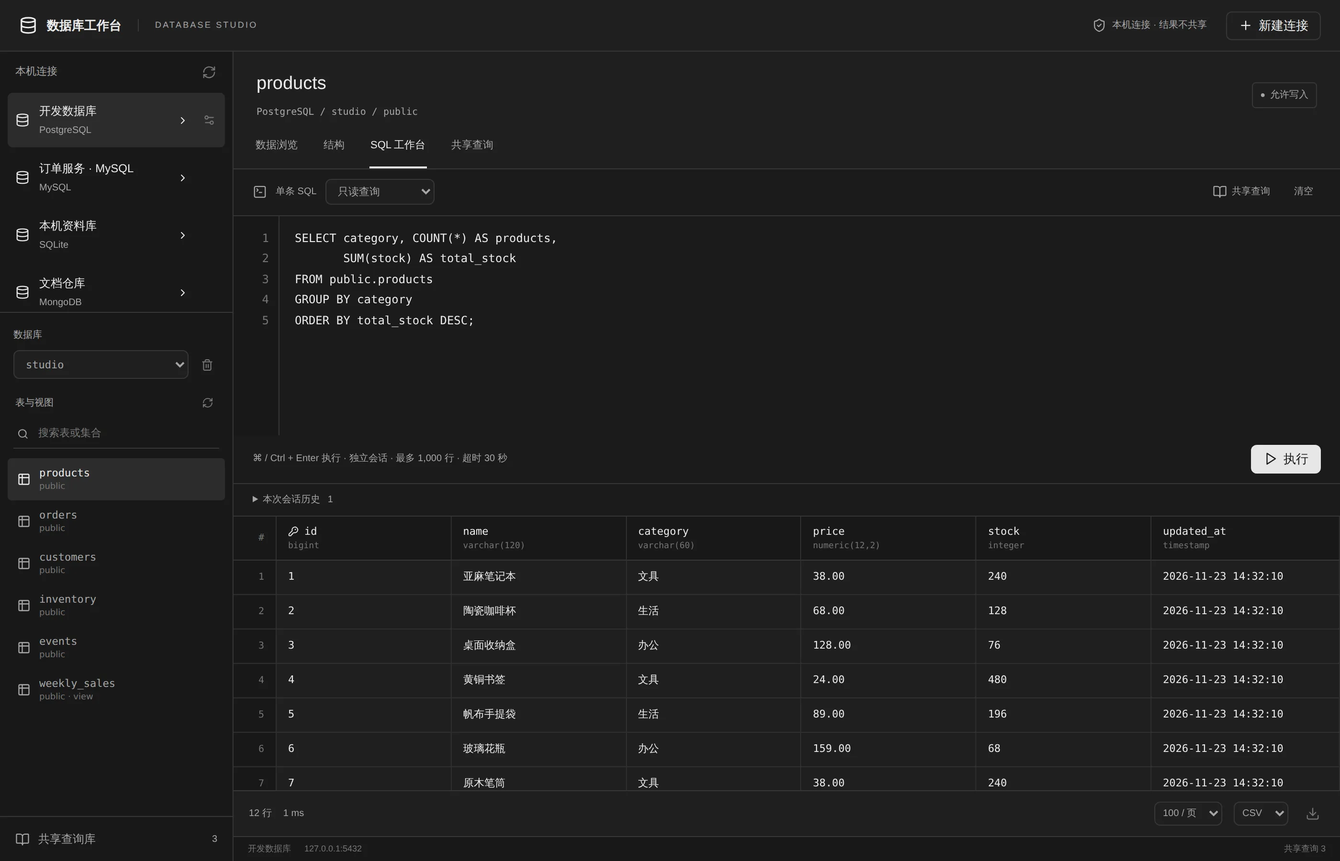
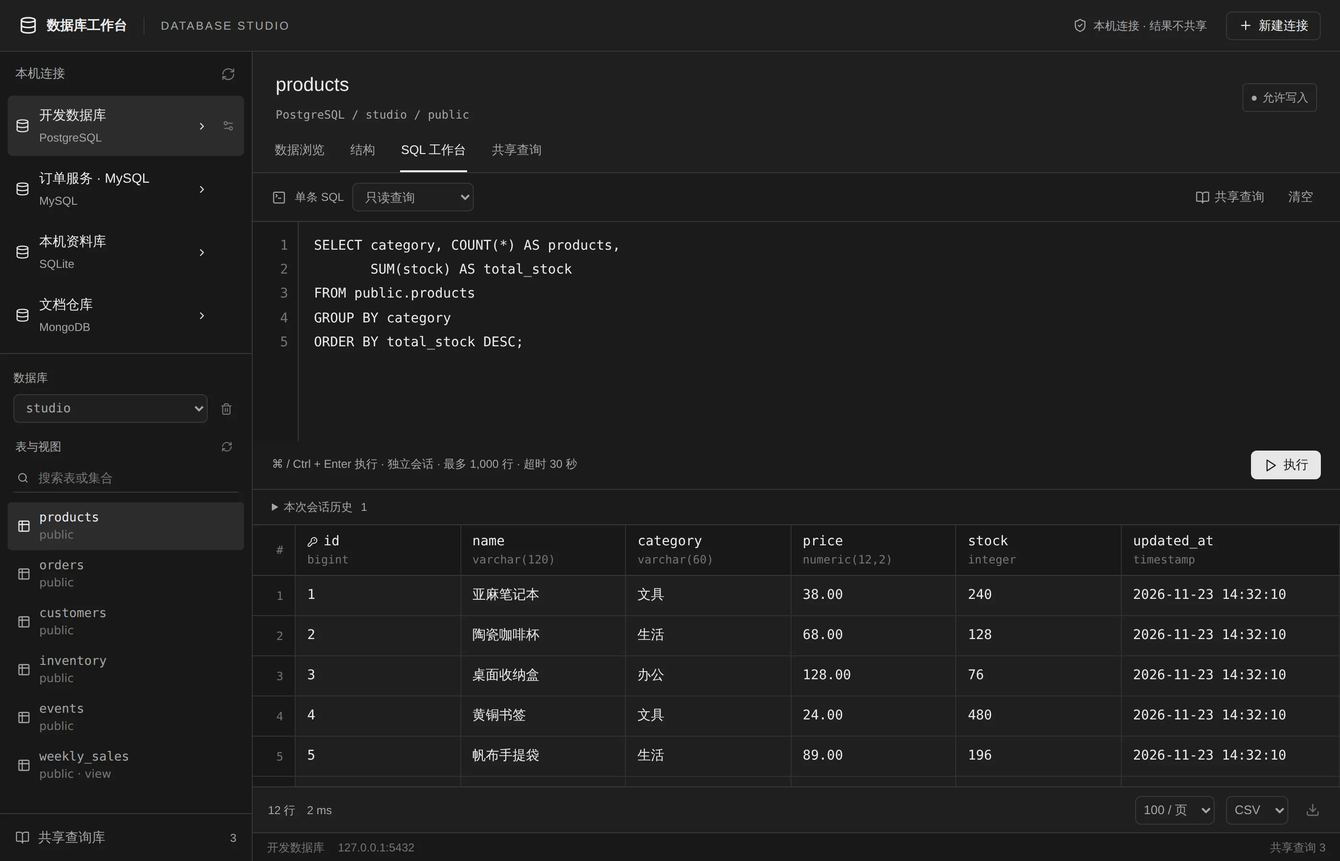
Improve database studio text readability

diff --git a/templates/src/database/database.css b/templates/src/database/database.css
@@ -1,7 +1,8 @@
 /* Desktop-style neutral workspace. Results and credentials have separate flows. */
-:root{--db-sidebar:#f7f7f6;--db-paper:#fff;--db-code:#fafafa;--db-grid-line:#ededeb}@media(prefers-color-scheme:dark){:root{--db-sidebar:#191919;--db-paper:#202020;--db-code:#1b1b1b;--db-grid-line:#303030}}*{box-sizing:border-box}html,body,#root{height:100%;width:100%;margin:0;overflow:hidden}.db-app{height:100%;display:flex;flex-direction:column;font-size:12px;color:var(--fg);background:var(--bg)}button,input,select,textarea{font:inherit}button{cursor:default}button:disabled{opacity:.4;cursor:default}button:focus-visible,input:focus-visible,select:focus-visible,textarea:focus-visible{outline:2px solid var(--fg);outline-offset:2px}.db-top{height:54px;flex:0 0 54px;border-bottom:1px solid var(--line);padding:0 20px;display:flex;align-items:center;justify-content:space-between;gap:16px;background:var(--db-paper)}.db-brand{display:flex;align-items:center;gap:10px;white-space:nowrap}.db-brand strong{font-size:13px;font-weight:600}.db-brand>span{font-size:9px;letter-spacing:1.6px;color:var(--muted);border-left:1px solid var(--line);padding-left:17px;margin-left:7px}.db-inline{display:flex;align-items:center;gap:8px;min-width:0}.db-local{display:flex;align-items:center;gap:6px;color:var(--muted);font-size:10px;margin-right:12px}.db-layout{flex:1;min-height:0;display:flex}.db-sidebar{width:244px;flex:0 0 244px;background:var(--db-sidebar);border-right:1px solid var(--line);display:flex;flex-direction:column;min-height:0}.db-side-heading{display:flex;align-items:center;justify-content:space-between;height:43px;padding:0 12px 0 16px;font-size:11px;color:var(--muted)}.db-connection-list{max-height:230px;overflow:auto;padding:0 8px 12px;border-bottom:1px solid var(--line)}.db-connection{display:flex;align-items:center;border-radius:5px;margin-bottom:3px}.db-connection.is-active{background:var(--hover)}.db-connection>button:first-child{flex:1;min-width:0;background:none;border:0;color:var(--fg);text-align:left;display:flex;align-items:center;gap:10px;padding:10px 8px}.db-connection>button:first-child>span{min-width:0;flex:1}.db-connection strong{display:block;font-size:12px;white-space:nowrap;overflow:hidden;text-overflow:ellipsis;font-weight:500}.db-connection small{display:block;font-size:10px;color:var(--muted);margin-top:4px}.db-connection>.icon-btn{margin-right:4px;flex-shrink:0;opacity:0}.db-connection:hover>.icon-btn,.db-connection>.icon-btn:focus-visible,.db-connection.is-active>.icon-btn{opacity:1}.db-database-select{padding:16px 14px 12px;display:flex;align-items:flex-end;gap:6px}.db-database-select label{display:grid;gap:8px;flex:1;min-width:0;color:var(--muted);font-size:10px}.db-database-select .sel{width:100%;min-width:0;font-size:11px}.db-database-select>.icon-btn{margin-bottom:2px}.db-object-search{display:flex;gap:7px;align-items:center;margin:0 14px 10px;padding:0 4px;border-bottom:1px solid var(--line);color:var(--muted)}.db-object-search .inp{border:0;width:100%;min-width:0;background:transparent;padding:3px;font-size:11px}.db-table-list{flex:1;min-height:0;overflow:auto;padding:0 8px 14px}.db-table-list>button{display:flex;align-items:center;gap:9px;width:100%;border:0;border-radius:4px;background:none;text-align:left;color:var(--muted);padding:9px 10px;min-width:0}.db-table-list>button.is-active{background:var(--hover);color:var(--fg)}.db-table-list>button>span{min-width:0;white-space:nowrap;overflow:hidden;text-overflow:ellipsis;font:11px ui-monospace,SFMono-Regular,Consolas,monospace}.db-table-list small{display:block;font:9px system-ui;margin-top:3px;color:var(--faint)}.db-table-list>.db-hint{padding:8px}.db-side-empty{padding:8px;font-size:11px!important}.db-library-nav{display:flex;align-items:center;gap:9px;padding:14px 16px;margin-top:auto;border:0;border-top:1px solid var(--line);background:none;color:var(--muted);text-align:left;flex-shrink:0}.db-library-nav span{margin-left:auto;font-size:10px}.db-library-nav.is-active{background:var(--hover);color:var(--fg)}.db-main{flex:1;min-width:0;display:flex;flex-direction:column;min-height:0;background:var(--db-paper)}.db-context{display:flex;align-items:center;gap:12px;padding:20px 24px 17px;min-height:87px}.db-context h1{font-size:19px;font-weight:500;margin:0 0 7px;max-width:65vw;overflow:hidden;text-overflow:ellipsis;white-space:nowrap}.db-context p{font-size:10px;color:var(--muted);margin:0}.db-access{display:flex;align-items:center;gap:5px;font-size:10px;color:var(--muted);padding:5px 8px;border:1px solid var(--line);border-radius:4px;white-space:nowrap}.db-write-mark{font-size:9px}.db-grow{flex:1;min-width:0}.db-tabs{display:flex;align-items:stretch;border-bottom:1px solid var(--line);padding:0 22px;gap:25px;min-height:35px;overflow-x:auto;flex-shrink:0}.db-tabs>button{background:none;border:0;border-bottom:2px solid transparent;color:var(--muted);padding:0 1px 11px;font-size:11px;white-space:nowrap}.db-tabs>button.is-active{border-color:var(--fg);color:var(--fg)}.db-support{display:flex;align-items:flex-start;gap:10px;background:var(--bg2);padding:14px 22px;border-top:1px solid var(--line);border-bottom:1px solid var(--line);font-size:11px}.db-support .ico{flex-shrink:0;margin-top:2px}.db-support strong{font-size:12px;font-weight:500}.db-support p{line-height:1.7;margin:5px 0 0;color:var(--muted)}.db-data-toolbar{padding:12px 20px;display:flex;align-items:center;gap:10px;border-bottom:1px solid var(--line);flex-wrap:wrap;flex-shrink:0}.db-data-toolbar .btn,.db-data-toolbar .tool{font-size:11px}.db-sort{max-width:160px;font-size:11px}.db-result-area{flex:1;min-height:0;display:flex;flex-direction:column;overflow:hidden}.db-grid-scroll{overflow:auto;flex:1;min-height:0;overscroll-behavior:contain}.db-grid{width:100%;border-collapse:separate;border-spacing:0;table-layout:auto;font:11px ui-monospace,SFMono-Regular,Consolas,monospace}.db-grid th{position:sticky;top:0;z-index:1;background:var(--db-sidebar);border-bottom:1px solid var(--line);border-right:1px solid var(--db-grid-line);text-align:left;font-weight:500;padding:9px 12px;min-width:140px;max-width:280px;color:var(--fg)}.db-grid th>span{display:flex;align-items:center;gap:6px}.db-grid th small{display:block;color:var(--faint);font-size:9px;font-weight:400;margin-top:4px;max-width:220px;overflow:hidden;text-overflow:ellipsis;white-space:nowrap}.db-grid td{padding:9px 12px;border-bottom:1px solid var(--db-grid-line);border-right:1px solid var(--db-grid-line);max-width:300px;min-width:140px;height:36px;color:var(--fg);vertical-align:middle}.db-grid td>span{display:block;max-width:300px;white-space:nowrap;overflow:hidden;text-overflow:ellipsis;line-height:1.5}.db-grid tbody tr:hover>td{background:var(--hover)}.db-grid td.is-null{color:var(--faint);font-style:italic;font-size:10px}.db-grid td.is-number{font-variant-numeric:tabular-nums}.db-grid .db-row-number{width:45px;min-width:45px;max-width:45px;color:var(--faint);text-align:right;font-size:10px;background:var(--db-sidebar)}.db-grid .db-row-actions{position:sticky;right:0;width:76px;min-width:76px;max-width:76px;background:var(--db-paper);border-left:1px solid var(--line);padding:3px 6px;white-space:nowrap;z-index:1}.db-grid th.db-row-actions{z-index:2;background:var(--db-sidebar);font:10px system-ui}.db-row-actions .icon-btn{display:inline-flex;margin:0 1px;width:25px;height:25px}.db-delete:hover{color:var(--red)!important}.db-no-rows{text-align:center;padding:50px 20px;color:var(--muted);font-size:12px}.db-result-footer{display:flex;align-items:center;gap:12px;padding:8px 16px;border-top:1px solid var(--line);font-size:10px;color:var(--muted);flex-wrap:wrap;flex-shrink:0;min-height:48px}.db-result-footer .sel{height:25px;font-size:10px;padding:0 4px}.db-readonly-note{display:flex;gap:5px;align-items:center}.db-bottom-status{height:26px;flex:0 0 26px;border-top:1px solid var(--line);display:flex;gap:14px;align-items:center;padding:0 15px;font-size:9px;color:var(--faint);background:var(--db-sidebar);white-space:nowrap;overflow:hidden}.db-bottom-status>span{overflow:hidden;text-overflow:ellipsis}.db-bottom-status>span:nth-child(2){max-width:60%}.db-query-panel{flex-shrink:0;border-bottom:1px solid var(--line)}.db-query-toolbar{display:flex;gap:9px;align-items:center;padding:10px 20px;background:var(--db-code);color:var(--muted);font-size:10px}.db-query-toolbar .sel{font-size:11px;height:27px;max-width:180px}.db-query-toolbar .tool{font-size:10px}.db-code{display:flex;height:230px;background:var(--db-code);border-top:1px solid var(--line);position:relative;overflow:hidden}.db-line-numbers{width:48px;flex:0 0 48px;text-align:right;overflow:hidden;color:var(--faint);border-right:1px solid var(--line);background:var(--db-sidebar);padding:13px 10px}.db-line-numbers pre{font:12px/1.8 ui-monospace,SFMono-Regular,Consolas,monospace;white-space:pre;margin:0}.db-code textarea{flex:1;min-width:0;width:100%;border:0;resize:none;padding:13px 16px;margin:0;background:transparent;color:var(--fg);font:12px/1.8 ui-monospace,SFMono-Regular,Consolas,monospace;tab-size:2;white-space:pre;overflow:auto;outline:none}.db-code textarea:focus-visible{outline:none}.db-query-footer{display:flex;gap:12px;align-items:center;padding:10px 20px;background:var(--db-code)}.db-query-footer>.db-hint{margin:0}.db-history{font-size:10px;background:var(--db-code);border-top:1px solid var(--line);max-height:135px;overflow:auto}.db-history summary{padding:9px 20px;color:var(--muted)}.db-history summary>span{margin-left:5px}.db-history>button{display:flex;gap:16px;justify-content:space-between;padding:8px 20px;border:0;background:none;color:var(--muted);width:100%;text-align:left}.db-history code{overflow:hidden;text-overflow:ellipsis;white-space:nowrap}.db-history small{flex-shrink:0}.db-empty{display:flex;flex:1;flex-direction:column;align-items:center;justify-content:center;padding:48px 25px;color:var(--muted);text-align:center;min-height:240px}.db-empty h2{font-size:18px;font-weight:500;color:var(--fg);margin:20px 0 10px}.db-empty p{font-size:12px;line-height:1.9;max-width:460px;margin:0}.db-empty .btn{margin-top:22px}.db-command-result{padding:36px 24px}.db-command-result strong{font-weight:500;font-size:14px}.db-command-result p{color:var(--muted);font-size:12px}.db-running{display:flex;align-items:center;gap:16px;font-size:11px;padding:10px 20px;background:var(--bg2);color:var(--muted);border-bottom:1px solid var(--line)}.db-running .link-btn{font-size:11px}.db-error{color:var(--red);font-size:12px;line-height:1.8;overflow-wrap:anywhere;white-space:pre-wrap}.db-main-error{padding:12px 20px;border-bottom:1px solid var(--line);background:var(--db-code);display:flex;align-items:flex-start;gap:12px;max-height:150px;overflow:auto;flex-shrink:0}.db-main-error strong{font-weight:500;white-space:nowrap}.db-main-error>span{flex:1}.db-main-error>.icon-btn{flex-shrink:0}.db-saved{flex:1;overflow:auto;padding:22px 25px;min-height:0}.db-saved-header{display:flex;align-items:center;gap:24px;justify-content:space-between;margin-bottom:24px}.db-saved-header>p{font-size:11px;color:var(--muted);line-height:1.8;margin:0;max-width:650px}.db-saved-header>.btn{flex-shrink:0}.db-saved>article{border:1px solid var(--line);border-radius:7px;overflow:hidden;margin-bottom:20px}.db-saved>article>div{padding:17px 18px}.db-engine-label{font-size:9px;color:var(--muted);border:1px solid var(--line);border-radius:3px;padding:3px 5px}.db-saved h3{font-size:14px;font-weight:500;margin:13px 0 8px}.db-saved article p{font-size:11px;line-height:1.8;color:var(--muted);margin:0;white-space:pre-wrap}.db-saved article pre{font:11px/1.8 ui-monospace,SFMono-Regular,Consolas,monospace;padding:14px 18px;margin:0;background:var(--db-code);max-height:180px;overflow:auto;border-top:1px solid var(--line)}.db-saved article footer{display:flex;gap:10px;align-items:center;padding:10px 16px;border-top:1px solid var(--line)}.db-mono{font-family:ui-monospace,SFMono-Regular,Consolas,monospace!important}.db-hint{font-size:10px;line-height:1.8;color:var(--muted);margin:0}.db-dialog{width:min(580px,calc(100vw - 32px));max-height:calc(100dvh - 40px);padding:0;border:1px solid var(--line);border-radius:11px;background:var(--db-paper);color:var(--fg);box-shadow:0 20px 90px #0003;overflow:hidden}.db-dialog.is-wide{width:min(840px,calc(100vw - 32px))}.db-dialog::backdrop{background:#0006;backdrop-filter:blur(2px)}.db-dialog header{padding:17px 22px;display:flex;align-items:center;justify-content:space-between;border-bottom:1px solid var(--line);gap:20px}.db-dialog h2{font-size:16px;font-weight:500;margin:0}.db-dialog>form{display:flex;flex-direction:column;max-height:calc(100dvh - 111px)}.db-dialog-body{padding:22px;overflow:auto;min-height:0}.db-dialog-body>p{font-size:12px;line-height:1.8;margin:0 0 20px}.db-dialog footer{display:flex;align-items:center;gap:9px;padding:14px 22px;border-top:1px solid var(--line);flex-shrink:0}.db-engine-picker{display:flex;border:1px solid var(--line);border-radius:6px;padding:3px;margin-bottom:22px;gap:3px}.db-engine-picker>button{flex:1;min-width:0;font-size:11px;background:transparent;color:var(--muted);border:0;padding:8px 4px;border-radius:4px}.db-engine-picker>button.is-active{background:var(--hover);color:var(--fg);font-weight:600}.db-field{display:grid;gap:8px;font-size:11px;color:var(--muted);margin:0 0 17px}.db-field .inp,.db-field .sel{min-width:0;width:100%;color:var(--fg);font-size:12px}.db-field textarea.inp{height:auto;min-height:65px;resize:vertical;padding:8px;line-height:1.7}.db-field .db-inline>.inp{flex:1}.db-field .db-inline>.btn{flex-shrink:0}.db-form-grid{display:grid;grid-template-columns:minmax(0,1fr) minmax(0,1fr);gap:18px}.db-form-grid:first-of-type{grid-template-columns:minmax(0,1fr) 120px}.db-check{display:flex;gap:9px;align-items:center;font-size:11px;color:var(--muted);margin:0 0 17px}.db-check input{accent-color:var(--fg);margin:0;flex-shrink:0}.db-readonly{border:1px solid var(--line);border-radius:6px;padding:13px;align-items:flex-start}.db-readonly input{margin-top:2px}.db-readonly strong{font-weight:500;color:var(--fg);display:block;font-size:12px}.db-readonly small{display:block;font-size:10px;line-height:1.8;margin-top:5px}.db-private{display:flex;gap:8px;font-size:10px!important;line-height:1.8;color:var(--muted)}.db-private .ico{flex-shrink:0;margin-top:2px}.db-test-success{color:var(--fg);font-size:12px;margin-top:12px}.db-cell-fields{margin-top:20px}.db-cell-field{padding:14px 0;border-top:1px solid var(--line)}.db-cell-name{display:flex;align-items:center;gap:8px;min-width:0;margin-bottom:10px}.db-cell-name strong{font:12px ui-monospace,monospace;font-weight:500;overflow-wrap:anywhere}.db-cell-name small{font-size:10px;color:var(--muted);overflow-wrap:anywhere;margin-left:auto}.db-cell-name input{accent-color:var(--fg)}.db-cell-value{display:flex;align-items:flex-start;gap:12px}.db-cell-value .sel{width:104px;flex-shrink:0;font-size:11px}.db-cell-value textarea.inp{flex:1;min-width:0;min-height:54px;max-height:180px;height:auto;resize:vertical;padding:8px 10px;font-size:11px;line-height:1.7}.db-document{display:block;resize:vertical;width:100%;min-height:280px;max-height:55dvh;font:12px/1.8 ui-monospace,SFMono-Regular,Consolas,monospace;border:1px solid var(--line);border-radius:6px;padding:13px;color:var(--fg);background:var(--db-code);margin-top:16px}.db-document.is-short{min-height:200px;margin:0}.db-danger{color:var(--red)!important;border-color:var(--red)!important}.db-danger:hover{background:var(--red)!important;color:white!important}.db-app .btn:hover,.db-app .tool:hover,.db-app .icon-btn:hover,.db-connection:hover,.db-table-list>button:hover,.db-library-nav:hover,.db-history>button:hover{background:var(--hover)}.db-app .btn-primary:hover{background:var(--accent)}.db-app button:active{filter:brightness(.9)}.db-drawer-toggle,.db-drawer-close{display:none!important}
-@media(max-width:1000px){.db-sidebar{width:210px;flex-basis:210px}.db-top{padding:0 16px}.db-brand>span{display:none}.db-local{font-size:9px}.db-context{padding:18px 20px}.db-tabs{padding:0 18px;gap:22px}.db-result-footer{gap:8px}.db-readonly-note{max-width:180px;line-height:1.5}.db-query-footer>.db-hint{max-width:65%;font-size:9px}.db-result-footer>.db-grow{flex-basis:10px}.db-query-toolbar{padding:10px 16px}.db-query-toolbar>span:nth-child(2){display:none}.db-result-footer>.sel{max-width:85px}}
-@media(max-width:760px){.db-sidebar{display:none;position:absolute;top:54px;bottom:0;left:0;z-index:5;width:260px;box-shadow:20px 0 60px #0002}.db-sidebar.is-open{display:flex}.db-drawer-toggle,.db-drawer-close{display:inline-flex!important}.db-side-heading>.db-drawer-close{margin-left:auto;margin-right:6px}.db-context{min-height:77px;padding:16px}.db-context h1{font-size:17px;max-width:55vw}.db-top{padding:0 14px;gap:10px}.db-local{display:none}.db-tabs{gap:22px;padding:0 16px}.db-grid td,.db-grid th{min-width:120px}.db-data-toolbar{padding:10px 14px}.db-query-footer{padding:10px 14px}.db-code{height:215px}.db-query-toolbar{flex-wrap:wrap;gap:7px}.db-query-toolbar>.sel{max-width:160px}.db-query-toolbar .tool{font-size:10px;padding:0 6px}.db-saved{padding:18px 14px}.db-saved-header{align-items:flex-start;flex-direction:column;gap:13px}.db-result-footer{gap:7px;padding:8px 10px}.db-result-footer>.db-readonly-note{display:none}.db-bottom-status{padding:0 10px;gap:10px}.db-bottom-status>span:nth-child(2){max-width:40%}.db-main-error{padding:10px 14px;flex-wrap:wrap;gap:5px}.db-main-error>strong{width:100%}.db-support{padding:12px 16px}.db-dialog{width:calc(100vw - 24px);max-height:calc(100dvh - 24px)}.db-dialog>form{max-height:calc(100dvh - 95px)}.db-dialog header{padding:15px 18px}.db-dialog-body{padding:18px}.db-dialog footer{padding:13px 18px}.db-form-grid{gap:12px}.db-engine-picker>button{font-size:10px}.db-cell-value{gap:8px}.db-cell-value .sel{width:85px}.db-cell-name small{max-width:45%;text-align:right}.db-query-footer>.db-hint{max-width:60%}.db-result-area{min-height:120px}.db-empty{padding:25px 18px;min-height:200px}.db-empty h2{font-size:16px}.db-empty p{font-size:11px}}
-@media(max-width:400px){.db-access{font-size:9px;padding:4px 6px}.db-query-toolbar{padding:8px 10px}.db-query-toolbar>.db-grow{display:none}.db-query-footer{gap:8px}.db-query-footer>.db-hint{font-size:9px}.db-tabs{gap:19px}.db-result-footer>.sel{max-width:70px}.db-data-toolbar .btn,.db-data-toolbar .tool{font-size:10px;padding:0 7px}.db-sort{max-width:100px}}
-.db-objects-heading{display:flex;align-items:center;justify-content:space-between;padding:0 13px 4px 16px;font-size:10px;color:var(--muted)}.db-collection-input{max-width:180px;min-width:100px;width:140px;font-size:11px!important;height:27px!important}@media(max-width:760px){.db-collection-input{max-width:145px}}
-.db-delete-summary{font:11px/1.8 ui-monospace,SFMono-Regular,Consolas,monospace;padding:12px;border:1px solid var(--line);border-radius:5px;background:var(--db-code);white-space:pre-wrap;overflow-wrap:anywhere;max-height:180px;overflow:auto;margin:0}
+:root{--db-sidebar:#f7f7f6;--db-paper:#fff;--db-code:#fafafa;--db-grid-line:#ededeb}@media(prefers-color-scheme:dark){:root{--db-sidebar:#191919;--db-paper:#202020;--db-code:#1b1b1b;--db-grid-line:#303030}}*{box-sizing:border-box}html,body,#root{height:100%;width:100%;margin:0;overflow:hidden}.db-app{height:100%;display:flex;flex-direction:column;font-size:14px;color:var(--fg);background:var(--bg)}button,input,select,textarea{font:inherit}button{cursor:default}button:disabled{opacity:.4;cursor:default}button:focus-visible,input:focus-visible,select:focus-visible,textarea:focus-visible{outline:2px solid var(--fg);outline-offset:2px}.db-top{height:54px;flex:0 0 54px;border-bottom:1px solid var(--line);padding:0 20px;display:flex;align-items:center;justify-content:space-between;gap:16px;background:var(--db-paper)}.db-brand{display:flex;align-items:center;gap:10px;white-space:nowrap}.db-brand strong{font-size:14px;font-weight:600}.db-brand>span{font-size:12px;letter-spacing:1.6px;color:var(--muted);border-left:1px solid var(--line);padding-left:17px;margin-left:7px}.db-inline{display:flex;align-items:center;gap:8px;min-width:0}.db-local{display:flex;align-items:center;gap:6px;color:var(--muted);font-size:12px;margin-right:12px}.db-layout{flex:1;min-height:0;display:flex}.db-sidebar{width:264px;flex:0 0 264px;background:var(--db-sidebar);border-right:1px solid var(--line);display:flex;flex-direction:column;min-height:0}.db-side-heading{display:flex;align-items:center;justify-content:space-between;height:46px;padding:0 12px 0 16px;font-size:13px;color:var(--muted)}.db-connection-list{max-height:270px;overflow:auto;padding:0 8px 12px;border-bottom:1px solid var(--line)}.db-connection{display:flex;align-items:center;border-radius:5px;margin-bottom:3px}.db-connection.is-active{background:var(--hover)}.db-connection>button:first-child{flex:1;min-width:0;background:none;border:0;color:var(--fg);text-align:left;display:flex;align-items:center;gap:10px;padding:10px 8px}.db-connection>button:first-child>span{min-width:0;flex:1}.db-connection strong{display:block;font-size:14px;white-space:nowrap;overflow:hidden;text-overflow:ellipsis;font-weight:500}.db-connection small{display:block;font-size:12px;color:var(--muted);margin-top:4px}.db-connection>.icon-btn{margin-right:4px;flex-shrink:0;opacity:0}.db-connection:hover>.icon-btn,.db-connection>.icon-btn:focus-visible,.db-connection.is-active>.icon-btn{opacity:1}.db-database-select{padding:16px 14px 12px;display:flex;align-items:flex-end;gap:6px}.db-database-select label{display:grid;gap:8px;flex:1;min-width:0;color:var(--muted);font-size:12px}.db-database-select .sel{width:100%;min-width:0;font-size:13px}.db-database-select>.icon-btn{margin-bottom:2px}.db-object-search{display:flex;gap:7px;align-items:center;margin:0 14px 10px;padding:0 4px;border-bottom:1px solid var(--line);color:var(--muted)}.db-object-search .inp{border:0;width:100%;min-width:0;background:transparent;padding:3px;font-size:13px}.db-table-list{flex:1;min-height:0;overflow:auto;padding:0 8px 14px}.db-table-list>button{display:flex;align-items:center;gap:9px;width:100%;border:0;border-radius:4px;background:none;text-align:left;color:var(--muted);padding:9px 10px;min-width:0}.db-table-list>button.is-active{background:var(--hover);color:var(--fg)}.db-table-list>button>span{min-width:0;white-space:nowrap;overflow:hidden;text-overflow:ellipsis;font:13px ui-monospace,SFMono-Regular,Consolas,monospace}.db-table-list small{display:block;font:12px system-ui;margin-top:3px;color:var(--faint)}.db-table-list>.db-hint{padding:8px}.db-side-empty{padding:8px;font-size:13px!important}.db-library-nav{display:flex;align-items:center;gap:9px;padding:14px 16px;margin-top:auto;border:0;border-top:1px solid var(--line);background:none;color:var(--muted);text-align:left;flex-shrink:0}.db-library-nav span{margin-left:auto;font-size:12px}.db-library-nav.is-active{background:var(--hover);color:var(--fg)}.db-main{flex:1;min-width:0;display:flex;flex-direction:column;min-height:0;background:var(--db-paper)}.db-context{display:flex;align-items:center;gap:12px;padding:20px 24px 17px;min-height:87px}.db-context h1{font-size:20px;font-weight:500;margin:0 0 7px;max-width:65vw;overflow:hidden;text-overflow:ellipsis;white-space:nowrap}.db-context p{font-size:12px;color:var(--muted);margin:0}.db-access{display:flex;align-items:center;gap:5px;font-size:12px;color:var(--muted);padding:5px 8px;border:1px solid var(--line);border-radius:4px;white-space:nowrap}.db-write-mark{font-size:12px}.db-grow{flex:1;min-width:0}.db-tabs{display:flex;align-items:stretch;border-bottom:1px solid var(--line);padding:0 22px;gap:25px;min-height:35px;overflow-x:auto;flex-shrink:0}.db-tabs>button{background:none;border:0;border-bottom:2px solid transparent;color:var(--muted);padding:0 1px 11px;font-size:13px;white-space:nowrap}.db-tabs>button.is-active{border-color:var(--fg);color:var(--fg)}.db-support{display:flex;align-items:flex-start;gap:10px;background:var(--bg2);padding:14px 22px;border-top:1px solid var(--line);border-bottom:1px solid var(--line);font-size:13px}.db-support .ico{flex-shrink:0;margin-top:2px}.db-support strong{font-size:14px;font-weight:500}.db-support p{line-height:1.7;margin:5px 0 0;color:var(--muted)}.db-data-toolbar{padding:12px 20px;display:flex;align-items:center;gap:10px;border-bottom:1px solid var(--line);flex-wrap:wrap;flex-shrink:0}.db-data-toolbar .btn,.db-data-toolbar .tool{font-size:13px}.db-sort{max-width:160px;font-size:13px}.db-result-area{flex:1;min-height:0;display:flex;flex-direction:column;overflow:hidden}.db-grid-scroll{overflow:auto;flex:1;min-height:0;overscroll-behavior:contain}.db-grid{width:100%;border-collapse:separate;border-spacing:0;table-layout:auto;font:14px ui-monospace,SFMono-Regular,Consolas,monospace}.db-grid th{position:sticky;top:0;z-index:1;background:var(--db-sidebar);border-bottom:1px solid var(--line);border-right:1px solid var(--db-grid-line);text-align:left;font-weight:500;padding:9px 12px;min-width:140px;max-width:280px;color:var(--fg)}.db-grid th>span{display:flex;align-items:center;gap:6px}.db-grid th small{display:block;color:var(--faint);font-size:12px;font-weight:400;margin-top:4px;max-width:220px;overflow:hidden;text-overflow:ellipsis;white-space:nowrap}.db-grid td{padding:9px 12px;border-bottom:1px solid var(--db-grid-line);border-right:1px solid var(--db-grid-line);max-width:300px;min-width:140px;height:42px;color:var(--fg);vertical-align:middle}.db-grid td>span{display:block;max-width:300px;white-space:nowrap;overflow:hidden;text-overflow:ellipsis;line-height:1.5}.db-grid tbody tr:hover>td{background:var(--hover)}.db-grid td.is-null{color:var(--faint);font-style:italic;font-size:12px}.db-grid td.is-number{font-variant-numeric:tabular-nums}.db-grid .db-row-number{width:45px;min-width:45px;max-width:45px;color:var(--faint);text-align:right;font-size:12px;background:var(--db-sidebar)}.db-grid .db-row-actions{position:sticky;right:0;width:76px;min-width:76px;max-width:76px;background:var(--db-paper);border-left:1px solid var(--line);padding:3px 6px;white-space:nowrap;z-index:1}.db-grid th.db-row-actions{z-index:2;background:var(--db-sidebar);font:12px system-ui}.db-row-actions .icon-btn{display:inline-flex;margin:0 1px;width:25px;height:25px}.db-delete:hover{color:var(--red)!important}.db-no-rows{text-align:center;padding:50px 20px;color:var(--muted);font-size:14px}.db-result-footer{display:flex;align-items:center;gap:12px;padding:8px 16px;border-top:1px solid var(--line);font-size:12px;color:var(--muted);flex-wrap:wrap;flex-shrink:0;min-height:48px}.db-result-footer .sel{height:30px;font-size:13px;padding:0 4px}.db-readonly-note{display:flex;gap:5px;align-items:center}.db-bottom-status{height:30px;flex:0 0 30px;border-top:1px solid var(--line);display:flex;gap:14px;align-items:center;padding:0 15px;font-size:12px;color:var(--faint);background:var(--db-sidebar);white-space:nowrap;overflow:hidden}.db-bottom-status>span{overflow:hidden;text-overflow:ellipsis}.db-bottom-status>span:nth-child(2){max-width:60%}.db-query-panel{flex-shrink:0;border-bottom:1px solid var(--line)}.db-query-toolbar{display:flex;gap:9px;align-items:center;padding:10px 20px;background:var(--db-code);color:var(--muted);font-size:12px}.db-query-toolbar .sel{font-size:13px;height:30px;max-width:180px}.db-query-toolbar .tool{font-size:13px}.db-code{display:flex;height:230px;background:var(--db-code);border-top:1px solid var(--line);position:relative;overflow:hidden}.db-line-numbers{width:48px;flex:0 0 48px;text-align:right;overflow:hidden;color:var(--faint);border-right:1px solid var(--line);background:var(--db-sidebar);padding:13px 10px}.db-line-numbers pre{font:14px/1.8 ui-monospace,SFMono-Regular,Consolas,monospace;white-space:pre;margin:0}.db-code textarea{flex:1;min-width:0;width:100%;border:0;resize:none;padding:13px 16px;margin:0;background:transparent;color:var(--fg);font:14px/1.8 ui-monospace,SFMono-Regular,Consolas,monospace;tab-size:2;white-space:pre;overflow:auto;outline:none}.db-code textarea:focus-visible{outline:none}.db-query-footer{display:flex;gap:12px;align-items:center;padding:10px 20px;background:var(--db-code)}.db-query-footer>.db-hint{margin:0}.db-history{font-size:12px;background:var(--db-code);border-top:1px solid var(--line);max-height:135px;overflow:auto}.db-history summary{padding:9px 20px;color:var(--muted)}.db-history summary>span{margin-left:5px}.db-history>button{display:flex;gap:16px;justify-content:space-between;padding:8px 20px;border:0;background:none;color:var(--muted);width:100%;text-align:left}.db-history code{overflow:hidden;text-overflow:ellipsis;white-space:nowrap}.db-history small{flex-shrink:0;font-size:12px}.db-empty{display:flex;flex:1;flex-direction:column;align-items:center;justify-content:center;padding:48px 25px;color:var(--muted);text-align:center;min-height:240px}.db-empty h2{font-size:20px;font-weight:500;color:var(--fg);margin:20px 0 10px}.db-empty p{font-size:14px;line-height:1.9;max-width:460px;margin:0}.db-empty .btn{margin-top:22px}.db-command-result{padding:36px 24px}.db-command-result strong{font-weight:500;font-size:14px}.db-command-result p{color:var(--muted);font-size:14px}.db-running{display:flex;align-items:center;gap:16px;font-size:13px;padding:10px 20px;background:var(--bg2);color:var(--muted);border-bottom:1px solid var(--line)}.db-running .link-btn{font-size:13px}.db-error{color:var(--red);font-size:14px;line-height:1.8;overflow-wrap:anywhere;white-space:pre-wrap}.db-main-error{padding:12px 20px;border-bottom:1px solid var(--line);background:var(--db-code);display:flex;align-items:flex-start;gap:12px;max-height:150px;overflow:auto;flex-shrink:0}.db-main-error strong{font-weight:500;white-space:nowrap}.db-main-error>span{flex:1}.db-main-error>.icon-btn{flex-shrink:0}.db-saved{flex:1;overflow:auto;padding:22px 25px;min-height:0}.db-saved-header{display:flex;align-items:center;gap:24px;justify-content:space-between;margin-bottom:24px}.db-saved-header>p{font-size:13px;color:var(--muted);line-height:1.8;margin:0;max-width:650px}.db-saved-header>.btn{flex-shrink:0}.db-saved>article{border:1px solid var(--line);border-radius:7px;overflow:hidden;margin-bottom:20px}.db-saved>article>div{padding:17px 18px}.db-engine-label{font-size:12px;color:var(--muted);border:1px solid var(--line);border-radius:3px;padding:3px 5px}.db-saved h3{font-size:14px;font-weight:500;margin:13px 0 8px}.db-saved article p{font-size:13px;line-height:1.8;color:var(--muted);margin:0;white-space:pre-wrap}.db-saved article pre{font:13px/1.8 ui-monospace,SFMono-Regular,Consolas,monospace;padding:14px 18px;margin:0;background:var(--db-code);max-height:180px;overflow:auto;border-top:1px solid var(--line)}.db-saved article footer{display:flex;gap:10px;align-items:center;padding:10px 16px;border-top:1px solid var(--line)}.db-mono{font-family:ui-monospace,SFMono-Regular,Consolas,monospace!important}.db-hint{font-size:12px;line-height:1.8;color:var(--muted);margin:0}.db-dialog{width:min(580px,calc(100vw - 32px));max-height:calc(100dvh - 40px);padding:0;border:1px solid var(--line);border-radius:11px;background:var(--db-paper);color:var(--fg);box-shadow:0 20px 90px #0003;overflow:hidden}.db-dialog.is-wide{width:min(840px,calc(100vw - 32px))}.db-dialog::backdrop{background:#0006;backdrop-filter:blur(2px)}.db-dialog header{padding:17px 22px;display:flex;align-items:center;justify-content:space-between;border-bottom:1px solid var(--line);gap:20px}.db-dialog h2{font-size:20px;font-weight:500;margin:0}.db-dialog>form{display:flex;flex-direction:column;max-height:calc(100dvh - 111px)}.db-dialog-body{padding:22px;overflow:auto;min-height:0}.db-dialog-body>p{font-size:14px;line-height:1.8;margin:0 0 20px}.db-dialog footer{display:flex;align-items:center;gap:9px;padding:14px 22px;border-top:1px solid var(--line);flex-shrink:0}.db-engine-picker{display:flex;border:1px solid var(--line);border-radius:6px;padding:3px;margin-bottom:22px;gap:3px}.db-engine-picker>button{flex:1;min-width:0;font-size:13px;background:transparent;color:var(--muted);border:0;padding:8px 4px;border-radius:4px}.db-engine-picker>button.is-active{background:var(--hover);color:var(--fg);font-weight:600}.db-field{display:grid;gap:8px;font-size:13px;color:var(--muted);margin:0 0 17px}.db-field .inp,.db-field .sel{min-width:0;width:100%;color:var(--fg);font-size:14px}.db-field textarea.inp{height:auto;min-height:65px;resize:vertical;padding:8px;line-height:1.7}.db-field .db-inline>.inp{flex:1}.db-field .db-inline>.btn{flex-shrink:0}.db-form-grid{display:grid;grid-template-columns:minmax(0,1fr) minmax(0,1fr);gap:18px}.db-form-grid:first-of-type{grid-template-columns:minmax(0,1fr) 120px}.db-check{display:flex;gap:9px;align-items:center;font-size:13px;color:var(--muted);margin:0 0 17px}.db-check input{accent-color:var(--fg);margin:0;flex-shrink:0}.db-readonly{border:1px solid var(--line);border-radius:6px;padding:13px;align-items:flex-start}.db-readonly input{margin-top:2px}.db-readonly strong{font-weight:500;color:var(--fg);display:block;font-size:14px}.db-readonly small{display:block;font-size:12px;line-height:1.8;margin-top:5px}.db-private{display:flex;gap:8px;font-size:12px!important;line-height:1.8;color:var(--muted)}.db-private .ico{flex-shrink:0;margin-top:2px}.db-test-success{color:var(--fg);font-size:14px;margin-top:12px}.db-cell-fields{margin-top:20px}.db-cell-field{padding:14px 0;border-top:1px solid var(--line)}.db-cell-name{display:flex;align-items:center;gap:8px;min-width:0;margin-bottom:10px}.db-cell-name strong{font:14px ui-monospace,monospace;font-weight:500;overflow-wrap:anywhere}.db-cell-name small{font-size:12px;color:var(--muted);overflow-wrap:anywhere;margin-left:auto}.db-cell-name input{accent-color:var(--fg)}.db-cell-value{display:flex;align-items:flex-start;gap:12px}.db-cell-value .sel{width:104px;flex-shrink:0;font-size:13px}.db-cell-value textarea.inp{flex:1;min-width:0;min-height:54px;max-height:180px;height:auto;resize:vertical;padding:8px 10px;font-size:13px;line-height:1.7}.db-document{display:block;resize:vertical;width:100%;min-height:280px;max-height:55dvh;font:14px/1.8 ui-monospace,SFMono-Regular,Consolas,monospace;border:1px solid var(--line);border-radius:6px;padding:13px;color:var(--fg);background:var(--db-code);margin-top:16px}.db-document.is-short{min-height:200px;margin:0}.db-danger{color:var(--red)!important;border-color:var(--red)!important}.db-danger:hover{background:var(--red)!important;color:white!important}.db-app .btn:hover,.db-app .tool:hover,.db-app .icon-btn:hover,.db-connection:hover,.db-table-list>button:hover,.db-library-nav:hover,.db-history>button:hover{background:var(--hover)}.db-app .btn-primary:hover{background:var(--accent)}.db-app button:active{filter:brightness(.9)}.db-drawer-toggle,.db-drawer-close{display:none!important}
+.db-dialog[open]{display:flex;flex-direction:column}.db-dialog>header{flex-shrink:0}.db-dialog[open]>form{max-height:none;min-height:0;flex:1 1 auto}
+@media(max-width:1000px){.db-sidebar{width:228px;flex-basis:228px}.db-top{padding:0 16px}.db-brand>span{display:none}.db-local{font-size:12px}.db-context{padding:18px 20px}.db-tabs{padding:0 18px;gap:22px}.db-result-footer{gap:8px}.db-readonly-note{max-width:180px;line-height:1.5}.db-query-footer>.db-hint{max-width:65%;font-size:12px}.db-result-footer>.db-grow{flex-basis:10px}.db-query-toolbar{padding:10px 16px}.db-query-toolbar>span:nth-child(2){display:none}.db-result-footer>.sel{max-width:85px}}
+@media(max-width:760px){.db-sidebar{display:none;position:absolute;top:54px;bottom:0;left:0;z-index:5;width:260px;box-shadow:20px 0 60px #0002}.db-sidebar.is-open{display:flex}.db-drawer-toggle,.db-drawer-close{display:inline-flex!important}.db-side-heading>.db-drawer-close{margin-left:auto;margin-right:6px}.db-context{min-height:77px;padding:16px}.db-context h1{font-size:20px;max-width:55vw}.db-top{padding:0 14px;gap:10px}.db-local{display:none}.db-tabs{gap:22px;padding:0 16px}.db-grid td,.db-grid th{min-width:120px}.db-data-toolbar{padding:10px 14px}.db-query-footer{padding:10px 14px}.db-code{height:215px}.db-query-toolbar{flex-wrap:wrap;gap:7px}.db-query-toolbar>.sel{max-width:160px}.db-query-toolbar .tool{font-size:13px;padding:0 6px}.db-saved{padding:18px 14px}.db-saved-header{align-items:flex-start;flex-direction:column;gap:13px}.db-result-footer{gap:7px;padding:8px 10px}.db-result-footer>.db-readonly-note{display:none}.db-bottom-status{padding:0 10px;gap:10px}.db-bottom-status>span:nth-child(2){max-width:40%}.db-main-error{padding:10px 14px;flex-wrap:wrap;gap:5px}.db-main-error>strong{width:100%}.db-support{padding:12px 16px}.db-dialog{width:calc(100vw - 24px);max-height:calc(100dvh - 24px)}.db-dialog>form{max-height:calc(100dvh - 95px)}.db-dialog header{padding:15px 18px}.db-dialog-body{padding:18px}.db-dialog footer{padding:13px 18px;flex-wrap:wrap}.db-dialog footer>.db-grow{display:none}.db-dialog footer>.btn{flex:1 1 auto;justify-content:center}.db-form-grid{gap:12px}.db-engine-picker>button{font-size:13px}.db-cell-value{gap:8px}.db-cell-value .sel{width:85px}.db-cell-name small{max-width:45%;text-align:right}.db-query-footer>.db-hint{max-width:60%}.db-result-area{min-height:120px}.db-empty{padding:25px 18px;min-height:200px}.db-empty h2{font-size:20px}.db-empty p{font-size:13px}}
+@media(max-width:400px){.db-access{font-size:12px;padding:4px 6px}.db-query-toolbar{padding:8px 10px}.db-query-toolbar>.db-grow{display:none}.db-query-footer{gap:8px}.db-query-footer>.db-hint{font-size:12px}.db-tabs{gap:19px}.db-result-footer>.sel{max-width:70px}.db-data-toolbar .btn,.db-data-toolbar .tool{font-size:13px;padding:0 7px}.db-sort{max-width:100px}}
+.db-objects-heading{display:flex;align-items:center;justify-content:space-between;padding:0 13px 4px 16px;font-size:12px;color:var(--muted)}.db-collection-input{max-width:180px;min-width:100px;width:140px;font-size:13px!important;height:30px!important}@media(max-width:760px){.db-collection-input{max-width:145px}}
+.db-delete-summary{font:13px/1.8 ui-monospace,SFMono-Regular,Consolas,monospace;padding:12px;border:1px solid var(--line);border-radius:5px;background:var(--db-code);white-space:pre-wrap;overflow-wrap:anywhere;max-height:180px;overflow:auto;margin:0}
